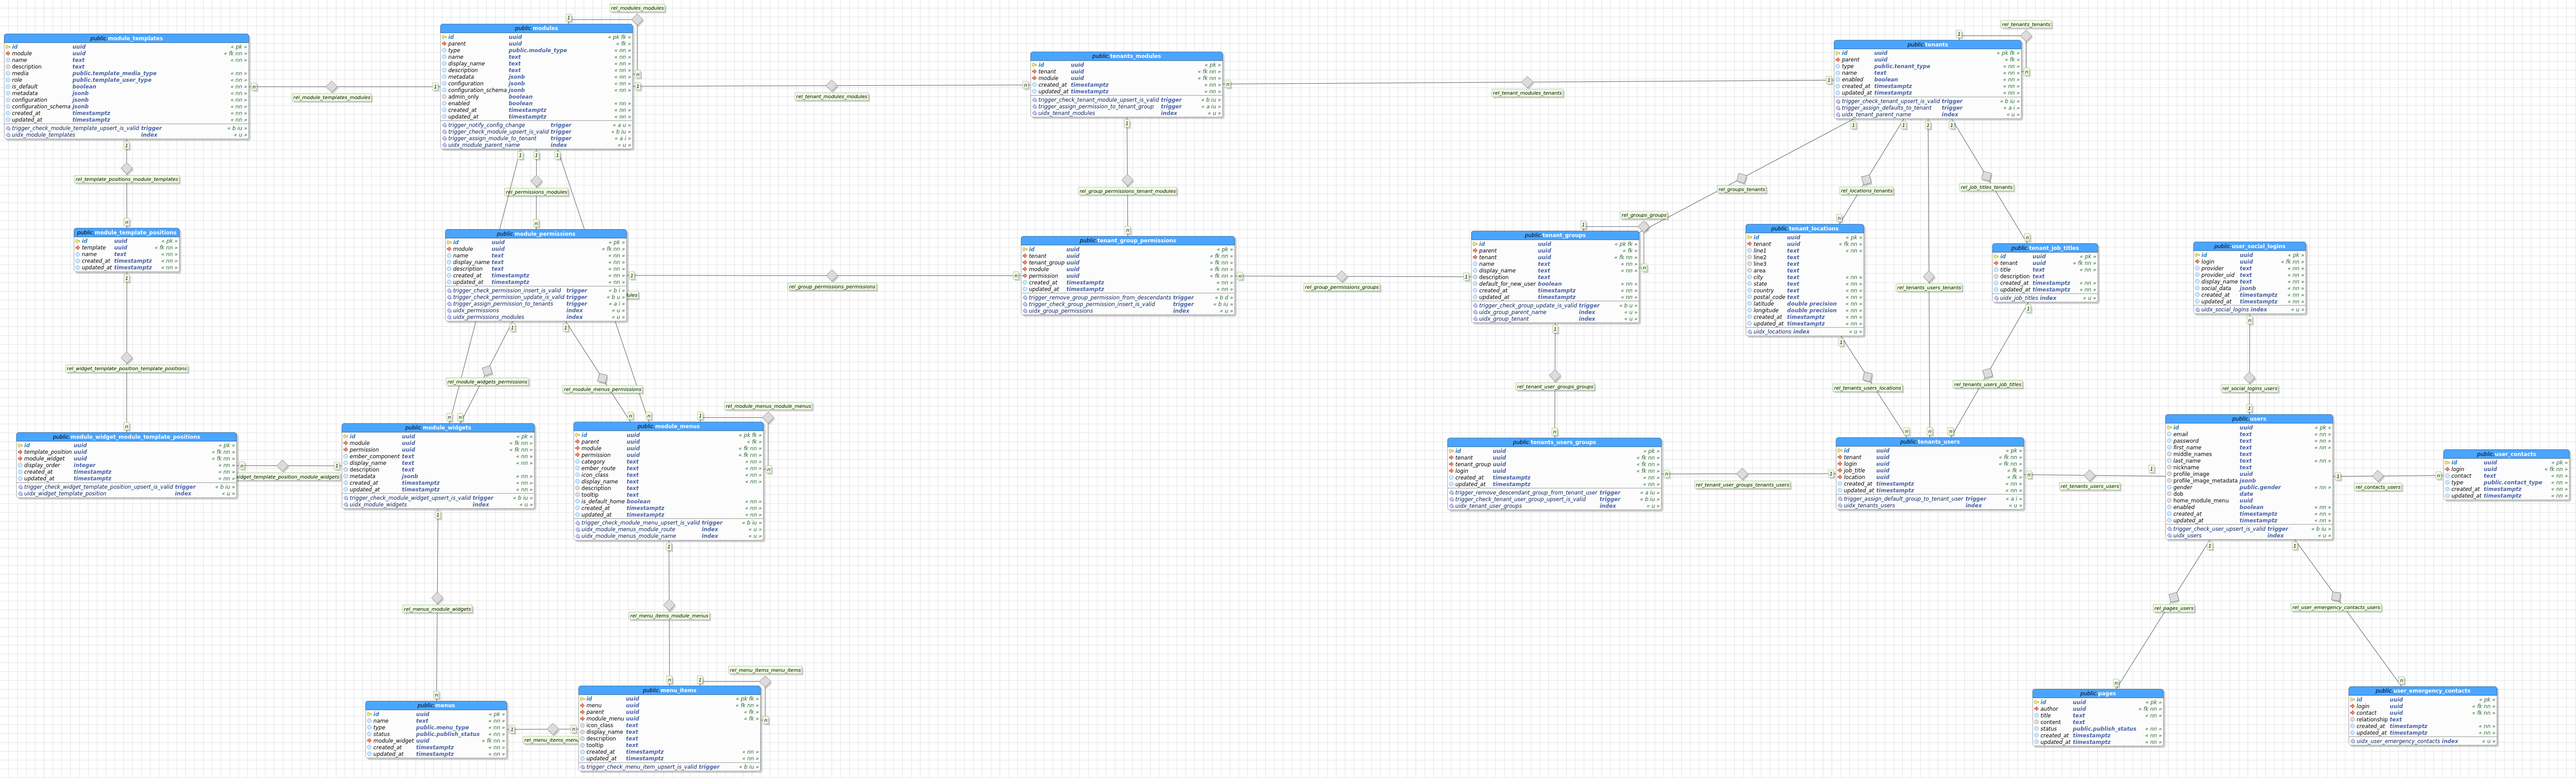
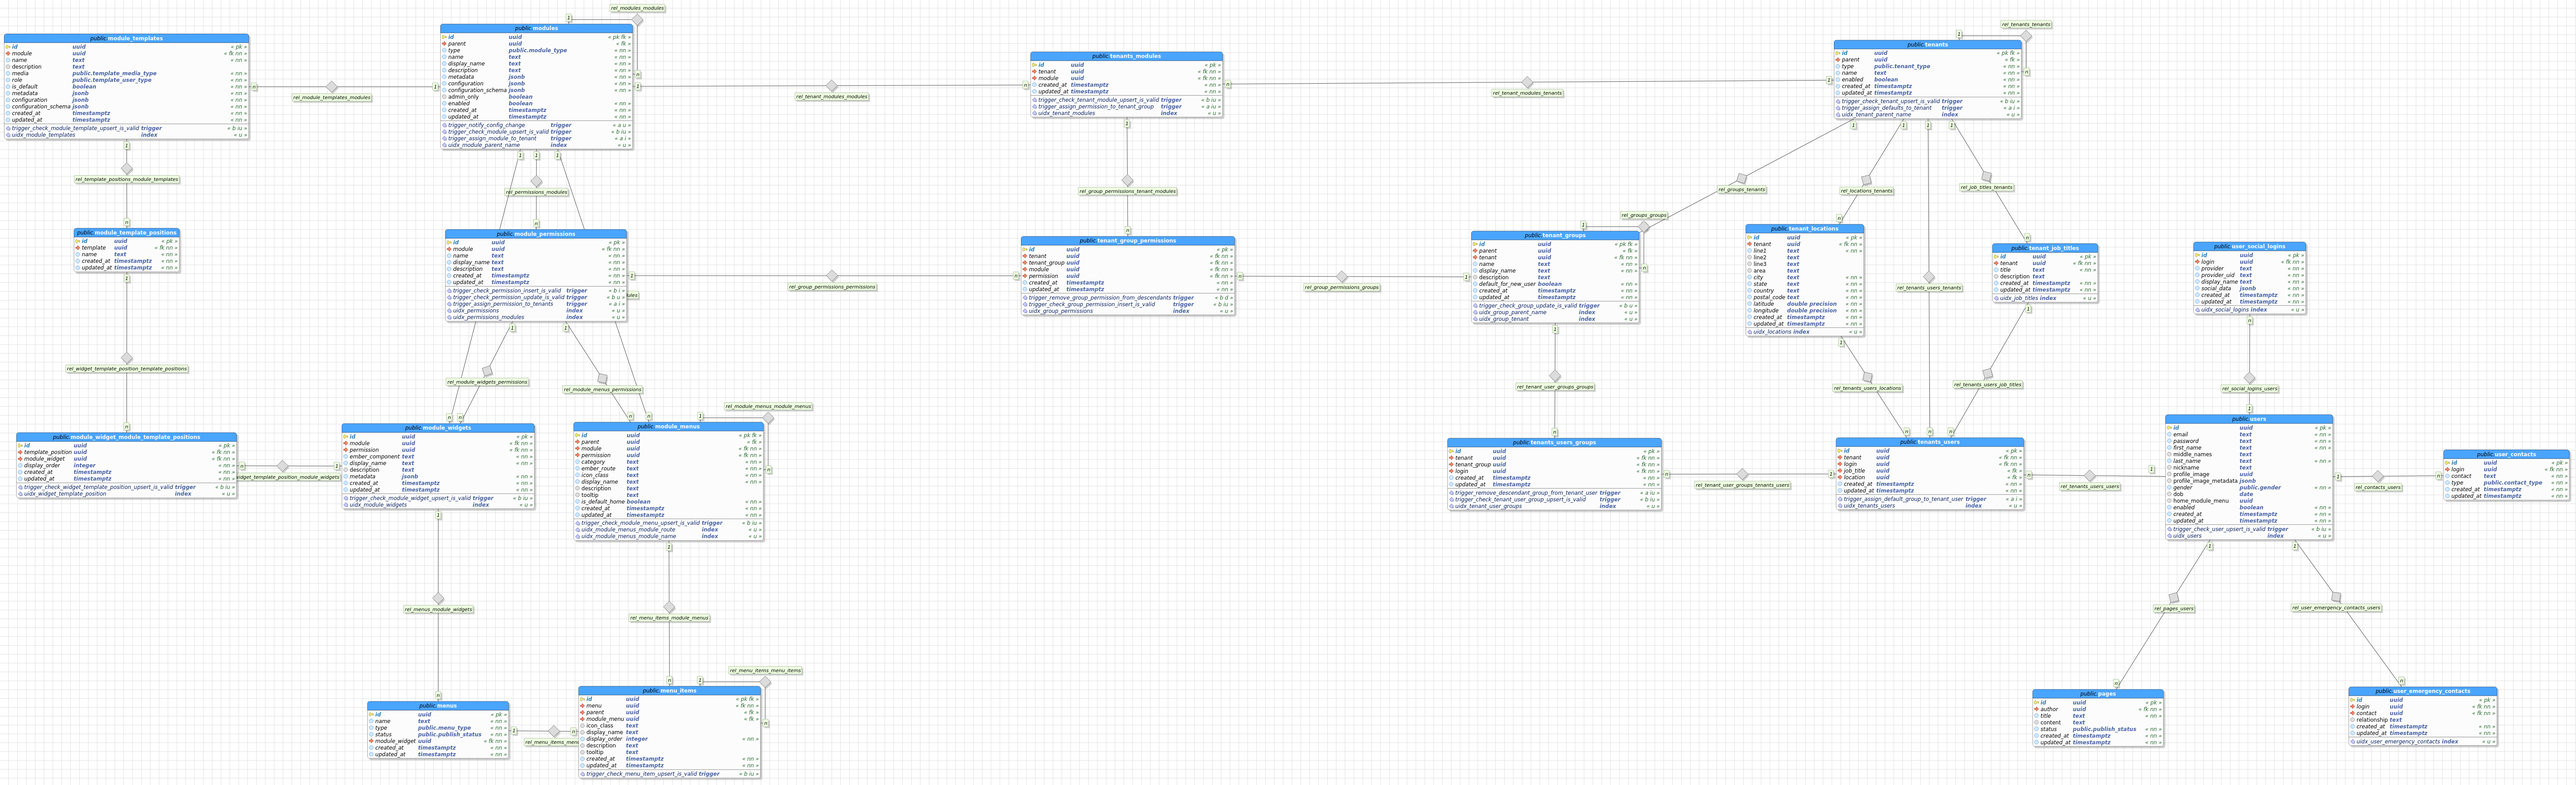
Complete Horizontal Menu authoring - now for the rendering

diff --git a/app/modules/components/menus/component.js b/app/modules/components/menus/component.js
@@ -20,8 +20,8 @@ var base = require('./../component-base').baseComponent,
 /**
  * Module dependencies, required for this module
  */
-var moment = require('moment'),
-	filesystem = require('fs'),
+var inflection = require('inflection'),
+	moment = require('moment'),
 	path = require('path'),
 	uuid = require('node-uuid');
 
@@ -132,6 +132,11 @@ var menusComponent = prime({
 		this.$router.post('/menus-defaults', this._addMenu.bind(this));
 		this.$router.patch('/menus-defaults/:id', this._updateMenu.bind(this));
 		this.$router.delete('/menus-defaults/:id', this._deleteMenu.bind(this));
+
+		this.$router.get('/menu-items/:id', this._getMenuItem.bind(this));
+		this.$router.post('/menu-items', this._addMenuItem.bind(this));
+		this.$router.patch('/menu-items/:id', this._updateMenuItem.bind(this));
+		this.$router.delete('/menu-items/:id', this._deleteMenuItem.bind(this));
 	},
 
 	'_getMenuTypeList': function(request, response, next) {
@@ -167,11 +172,11 @@ var menusComponent = prime({
 
 		self._checkPermissionAsync(request.user, self['$menuAuthorPermissionId'])
 		.then(function(hasPermission) {
-			if(hasPermission) {
-				return dbSrvc.raw('SELECT * FROM menus');
+			if(!hasPermission) {
+				throw new Error('Unauthorized Access');
 			}
 
-			throw new Error('Unauthorized Access');
+			return dbSrvc.raw('SELECT A.id, A.name, A.type, A.status, C.display_name AS permission, A.created_at, A.updated_at FROM menus A INNER JOIN module_widgets B ON (A.module_widget = B.id) INNER JOIN module_permissions C ON (B.permission = C.id)');
 		})
 		.then(function(menuList) {
 			var responseData = { 'data': [] };
@@ -179,7 +184,9 @@ var menusComponent = prime({
 				responseData.data.push({
 					'id': menu.id,
 					'name': menu.name,
-					'component': '',
+					'type': inflection.capitalize(menu.type),
+					'status': inflection.capitalize(menu.status),
+					'permission': menu.permission,
 					'created': moment(menu.created_at).format('DD/MMM/YYYY hh:mm A'),
 					'updated': moment(menu.updated_at).format('DD/MMM/YYYY hh:mm A')
 				})
@@ -382,7 +389,7 @@ var menusComponent = prime({
 
 			var promiseResolutions = [];
 			promiseResolutions.push(jsonDeserializedData);
-			promiseResolutions.push(dbSrvc.raw('UPDATE module_widgets SET permission = ? WHERE id = (SELECT module_widget FROM menus WHERE id = ?)', [permission, jsonDeserializedData.id]));
+			promiseResolutions.push(dbSrvc.raw('UPDATE module_widgets SET display_name = ?, permission = ? WHERE id = (SELECT module_widget FROM menus WHERE id = ?)', [jsonDeserializedData.name + ' Widget', permission, jsonDeserializedData.id]));
 			return promises.all(promiseResolutions);
 		})
 		.then(function(results) {
@@ -442,6 +449,261 @@ var menusComponent = prime({
 		})
 		.then(function() {
 			return new self.$MenuModel({ 'id': request.params.id }).destroy();
+		})
+		.then(function() {
+			response.status(204).json({});
+			return null;
+		})
+		.catch(function(err) {
+			loggerSrvc.error('Error servicing request ' + request.method + ' "' + request.originalUrl + '":\nQuery: ', request.query, '\nBody: ', request.body, '\nParams: ', request.params, '\nError: ', err);
+			response.status(422).json({
+				'errors': [{
+					'status': 422,
+					'source': { 'pointer': '/data/id' },
+					'title': 'Delete menu error',
+					'detail': (err.stack.split('\n', 1)[0]).replace('error: ', '').trim()
+				}]
+			});
+		});
+	},
+
+	'_getMenuItem': function(request, response, next) {
+		var self = this,
+			moduleId = null,
+			configSrvc = self.dependencies['configuration-service'],
+			dbSrvc = self.dependencies['database-service'].knex,
+			loggerSrvc = self.dependencies['logger-service'];
+
+		loggerSrvc.debug('Servicing request ' + request.method + ' "' + request.originalUrl + '":\nQuery: ', request.query, '\nParams: ', request.params, '\nBody: ', request.body);
+		response.type('application/javascript');
+
+		configSrvc.getModuleIdAsync(self)
+		.then(function(id) {
+			moduleId = id;
+			return self._checkPermissionAsync(request.user, self['$menuAuthorPermissionId']);
+		})
+		.then(function(hasPermission) {
+			if(!hasPermission) {
+				throw new Error('Unauthorized Access');
+			}
+
+			return new self.$MenuItemModel({ 'id': request.params.id })
+			.fetch({ 'withRelated': ['children'] });
+		})
+		.then(function(menuItemsData) {
+			menuItemsData = self['$jsonApiMapper'].map(menuItemsData, 'menu-items');
+
+			menuItemsData.data.relationships.menu_items = menuItemsData.data.relationships.children;
+
+			menuItemsData.data.relationships.menu = {
+				'data': {
+					'id': menuItemsData.data.attributes.menu,
+					'type': 'menus_defaults'
+				}
+			};
+
+			if(menuItemsData.data.attributes.parent) {
+				menuItemsData.data.relationships.parent = {
+					'data': {
+						'id': menuItemsData.data.attributes.parent,
+						'type': 'menu_items'
+					}
+				};
+			}
+
+			if(menuItemsData.data.relationships.menu_items) {
+				if(Array.isArray(menuItemsData.data.relationships.menu_items.data)) {
+					menuItemsData.data.relationships.menu_items.data.forEach(function(menuItem) {
+						menuItem.type = 'menu_items';
+					});
+				}
+				else {
+					menuItemsData.data.relationships.menu_items.data.type = 'menu_items';
+				}
+			}
+
+			if(menuItemsData.data.attributes.module_menu) {
+				menuItemsData.data.relationships.component_menu = {
+					'data': {
+						'id': menuItemsData.data.attributes.module_menu,
+						'type': 'component_menu'
+					}
+				};
+			}
+
+			delete menuItemsData.data.attributes.menu;
+			delete menuItemsData.data.attributes.parent;
+			delete menuItemsData.data.attributes.module_menu;
+			delete menuItemsData.data.relationships.children;
+			delete menuItemsData.included;
+
+			response.status(200).json(menuItemsData);
+			return null;
+		})
+		.catch(function(err) {
+			loggerSrvc.error('Servicing request ' + request.method + ' "' + request.originalUrl + '":\nQuery: ', request.query, '\nParams: ', request.params, '\nBody: ', request.body, '\nError: ', err);
+			response.status(422).json({
+				'errors': [{
+					'status': 422,
+					'source': { 'pointer': '/data/id' },
+					'title': 'Get menus error',
+					'detail': (err.stack.split('\n', 1)[0]).replace('error: ', '').trim()
+				}]
+			});
+		});
+	},
+
+	'_addMenuItem': function(request, response, next) {
+		var self = this,
+			moduleId = null,
+			permission = null,
+			configSrvc = self.dependencies['configuration-service'],
+			dbSrvc = self.dependencies['database-service'].knex,
+			loggerSrvc = self.dependencies['logger-service'];
+
+		loggerSrvc.debug('Servicing request ' + request.method + ' "' + request.originalUrl + '":\nQuery: ', request.query, '\nParams: ', request.params, '\nBody: ', request.body);
+		response.type('application/javascript');
+
+		configSrvc.getModuleIdAsync(self)
+		.then(function(id) {
+			moduleId = id;
+			return self._checkPermissionAsync(request.user, self['$menuAuthorPermissionId']);
+		})
+		.then(function(hasPermission) {
+			if(!hasPermission) {
+				throw new Error('Unauthorized Access');
+			}
+
+			return self['$jsonApiDeserializer'].deserializeAsync(request.body);
+		})
+		.then(function(jsonDeserializedData) {
+			console.log('jsonDeserializedData: ' + JSON.stringify(jsonDeserializedData, null, '\t'));
+
+			jsonDeserializedData.menu = request.body.data.relationships.menu.data.id;
+			if(request.body.data.relationships.component_menu.data) {
+				jsonDeserializedData.module_menu = request.body.data.relationships.component_menu.data.id;
+			}
+
+			if(request.body.data.relationships.parent.data) {
+				jsonDeserializedData.parent = request.body.data.relationships.parent.data.id;
+			}
+
+			delete jsonDeserializedData.component_menu;
+			delete jsonDeserializedData.created_at;
+			delete jsonDeserializedData.updated_at;
+
+			return self.$MenuItemModel
+			.forge()
+			.save(jsonDeserializedData, {
+				'method': 'insert',
+				'patch': false
+			});
+		})
+		.then(function(savedRecord) {
+			response.status(200).json({
+				'data': {
+					'type': request.body.data.type,
+					'id': savedRecord.get('id')
+				}
+			});
+
+			return null;
+		})
+		.catch(function(err) {
+			loggerSrvc.error('Error servicing request ' + request.method + ' "' + request.originalUrl + '":\nQuery: ', request.query, '\nBody: ', request.body, '\nParams: ', request.params, '\nError: ', err);
+			response.status(422).json({
+				'errors': [{
+					'status': 422,
+					'source': { 'pointer': '/data/id' },
+					'title': 'Add menu error',
+					'detail': (err.stack.split('\n', 1)[0]).replace('error: ', '').trim()
+				}]
+			});
+		});
+	},
+
+	'_updateMenuItem': function(request, response, next) {
+		var self = this,
+			dbSrvc = self.dependencies['database-service'].knex,
+			loggerSrvc = self.dependencies['logger-service'],
+			permission = null;
+
+		loggerSrvc.debug('Servicing request ' + request.method + ' "' + request.originalUrl + '":\nQuery: ', request.query, '\nParams: ', request.params, '\nBody: ', request.body);
+		response.type('application/javascript');
+
+		self._checkPermissionAsync(request.user, self['$menuAuthorPermissionId'])
+		.then(function(hasPermission) {
+			if(!hasPermission) {
+				throw new Error('Unauthorized Access');
+			}
+
+			return self['$jsonApiDeserializer'].deserializeAsync(request.body);
+		})
+		.then(function(jsonDeserializedData) {
+			jsonDeserializedData.menu = request.body.data.relationships.menu.data.id;
+			if(request.body.data.relationships.component_menu && request.body.data.relationships.component_menu.data) {
+				jsonDeserializedData.module_menu = request.body.data.relationships.component_menu.data.id;
+			}
+
+			if(request.body.data.relationships.parent && request.body.data.relationships.parent.data) {
+				jsonDeserializedData.parent = request.body.data.relationships.parent.data.id;
+			}
+
+			delete jsonDeserializedData.component_menu;
+			delete jsonDeserializedData.created_at;
+			delete jsonDeserializedData.updated_at;
+
+			return self.$MenuItemModel
+			.forge()
+			.save(jsonDeserializedData, {
+				'method': 'update',
+				'patch': true
+			});
+		})
+		.then(function(result) {
+			response.status(200).json({
+				'data': {
+					'type': request.body.data.type,
+					'id': request.params.id
+				}
+			});
+
+			return null;
+		})
+		.catch(function(err) {
+			loggerSrvc.error('Error servicing request ' + request.method + ' "' + request.originalUrl + '":\nQuery: ', request.query, '\nBody: ', request.body, '\nParams: ', request.params, '\nError: ', err);
+			response.status(422).json({
+				'errors': [{
+					'status': 422,
+					'source': { 'pointer': '/data/id' },
+					'title': 'Update menu error',
+					'detail': (err.stack.split('\n', 1)[0]).replace('error: ', '').trim()
+				}]
+			});
+		});
+	},
+
+	'_deleteMenuItem': function(request, response, next) {
+		var self = this,
+			moduleId = null,
+			configSrvc = self.dependencies['configuration-service'],
+			dbSrvc = self.dependencies['database-service'].knex,
+			loggerSrvc = self.dependencies['logger-service'];
+
+		loggerSrvc.debug('Servicing request ' + request.method + ' "' + request.originalUrl + '":\nQuery: ', request.query, '\nParams: ', request.params, '\nBody: ', request.body);
+		response.type('application/javascript');
+
+		configSrvc.getModuleIdAsync(self)
+		.then(function(id) {
+			moduleId = id;
+			return self._checkPermissionAsync(request.user, self['$menuAuthorPermissionId']);
+		})
+		.then(function(hasPermission) {
+			if(!hasPermission) {
+				throw new Error('Unauthorized Access');
+			}
+
+			return new self.$MenuItemModel({ 'id': request.params.id }).destroy();
 		})
 		.then(function() {
 			response.status(204).json({});

diff --git a/app/modules/components/pages/component.js b/app/modules/components/pages/component.js
@@ -20,8 +20,8 @@ var base = require('./../component-base').baseComponent,
 /**
  * Module dependencies, required for this module
  */
-var moment = require('moment'),
-	filesystem = require('fs'),
+var inflection = require('inflection'),
+	moment = require('moment'),
 	path = require('path'),
 	uuid = require('node-uuid');
 
@@ -109,11 +109,11 @@ var pagesComponent = prime({
 
 		self._checkPermissionAsync(request.user, self['$pageAuthorPermissionId'])
 		.then(function(hasPermission) {
-			if(hasPermission) {
-				return dbSrvc.raw('SELECT A.id, A.title, B.first_name || \' \' || B.last_name AS author, A.status, A.created_at AS created, A.updated_at AS updated FROM pages A INNER JOIN users B ON (A.author = B.id)');
+			if(!hasPermission) {
+				throw new Error('Unauthorized Access');
 			}
 
-			throw new Error('Unauthorized Access');
+			return dbSrvc.raw('SELECT A.id, A.title, B.first_name || \' \' || B.last_name AS author, A.status, D.display_name AS permission, A.created_at AS created, A.updated_at AS updated FROM pages A INNER JOIN users B ON (A.author = B.id) INNER JOIN module_menus C ON (C.ember_route = \'"page-view", "\' || A.id || \'"\') INNER JOIN module_permissions D ON (D.id = C.permission)');
 		})
 		.then(function(pageList) {
 			var responseData = { 'data': [] };
@@ -122,7 +122,8 @@ var pagesComponent = prime({
 					'id': page.id,
 					'title': page.title,
 					'author': page.author,
-					'status': page.status,
+					'status': inflection.capitalize(page.status),
+					'permission': inflection.capitalize(page.permission),
 					'created': moment(page.created).format('DD/MMM/YYYY hh:mm A'),
 					'updated': moment(page.updated).format('DD/MMM/YYYY hh:mm A')
 				})

diff --git a/knex_migrations/migrations/20160715173923_menus.js b/knex_migrations/migrations/20160715173923_menus.js
@@ -22,6 +22,7 @@ exports.up = function(knex, Promise) {
 			menuItemsTbl.uuid('module_menu').references('id').inTable('module_menus').onDelete('CASCADE').onUpdate('CASCADE');
 			menuItemsTbl.text('icon_class');
 			menuItemsTbl.text('display_name');
+			menuItemsTbl.integer('display_order');
 			menuItemsTbl.text('description');
 			menuItemsTbl.text('tooltip');
 			menuItemsTbl.timestamp('created_at').notNullable().defaultTo(knex.fn.now());
